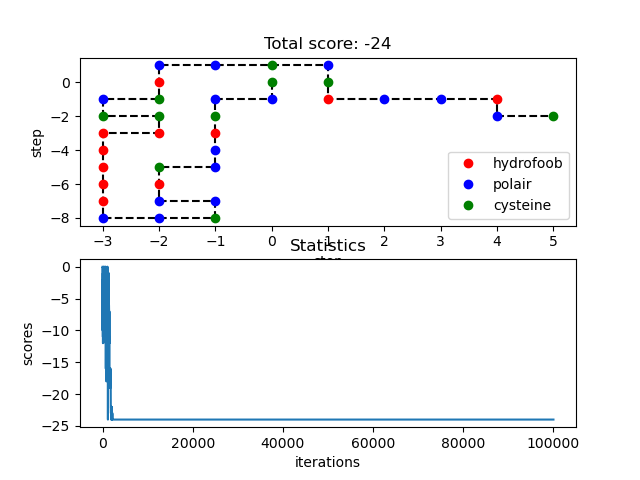
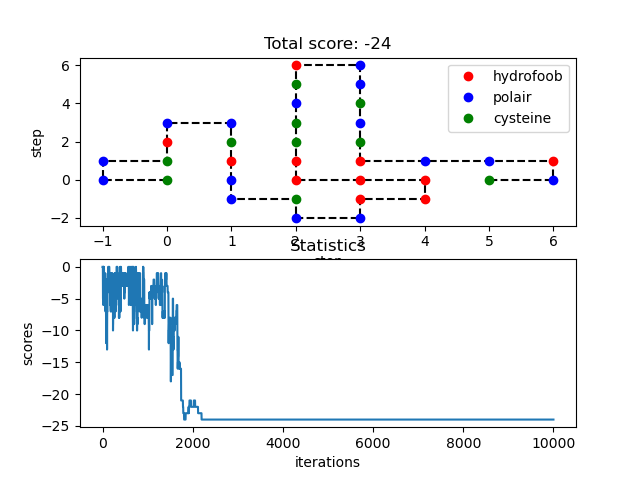
hillclimber added and simanealing corrected

diff --git a/hillclimber.py b/hillclimber.py
@@ -1,8 +1,5 @@
 """
-Renamed and reorganized some parts of monte.py for convenience
-Simmulated annealing seems to work
-Tweaking start temperature and iterations to figure out what combo works best
-Best till now seems to be -28
+Hiilclimber to compare simulated annealing
 """
 
 import numpy as np 
@@ -14,9 +11,8 @@ import copy
 # PROTEIN = 'PPHPPHPHPHHHHPHPPPHPPPHPPPPHPPPHPPPHPHHHHPHPHPHPHPHH'
 PROTEIN = 'CPPCHPPCHPPCPPHHHHHHCCPCHPPCPCHPPHPC'
 LENGTH = len(PROTEIN)
-ITERATIONS = 10000
+ITERATIONS = 1000
 DIRECTIONS = [[-1, 0], [0, 1], [1, 0], [0, -1]]
-START_TEMP = 100
 
 
 def protein_configuration():
@@ -44,20 +40,11 @@ def protein_configuration():
             continue
 
         old_score = score(backup_x, backup_y)
-        new_score = score(x, y)        
+        new_score = score(x, y)
 
-        temperature = START_TEMP * (0.997 ** rotations)
-        # temperature = START_TEMP - (START_TEMP / ITERATIONS) * rotations
-        acceptance_chance = 2 ** ((old_score - new_score)/temperature)
-        treshhold = random.random()
-
-        if new_score > old_score and acceptance_chance < treshhold:
+        if new_score > old_score:
             x = backup_x
             y = backup_y
-
-        # if acceptance_chance < treshhold:
-        #     x = backup_x
-        #     y = backup_y
 
         scores.append(old_score)
 
@@ -66,14 +53,6 @@ def protein_configuration():
             best_y = copy.deepcopy(y)
             lowest_score = copy.deepcopy(old_score)
 
-        # temperature = START_TEMP * (0.997 ** rotations)
-        # # temperature = START_TEMP - (START_TEMP / ITERATIONS) * rotations
-        # acceptance_chance = 2 ** ((old_score - new_score)/temperature)
-        # treshhold = random.random()
-
-        # if acceptance_chance < treshhold:
-        #     x = backup_x
-        #     y = backup_y
 
         rotations += 1
 
@@ -191,7 +170,7 @@ def visualization(x, y, score, scores):
     plt.title("Statistics")
     plt.xlabel("iterations")
     plt.ylabel("scores")
-    plt.savefig("simannealing.png")
+    plt.savefig("hillclimber.png")
     plt.show()
 
 

diff --git a/bab.py b/bab.py
@@ -16,7 +16,7 @@ import random
 # bunch of test strings
 
 # protein = ['H', 'H', 'P', 'H']
-# protein = ['H', 'H', 'P', 'H', 'H', 'H', 'P', 'H'] # official 8, mc -3
+protein = ['H', 'H', 'P', 'H', 'H', 'H', 'P', 'H'] # official 8, mc -3
 # # protein = ['H', 'H', 'P', 'H', 'H', 'H', 'P', 'H', 'P', 'H', 'H', 'H', 'P', 'H'] # official 14, mc -6
 # protein = ['H', 'P', 'H', 'P', 'P', 'H', 'H', 'P', 'H', 'P', 'P', 'H', 'P', 'H', 'H', 'P', 
 # #   'P', 'H', 'P', 'H'] # official 20, mc -9
@@ -31,9 +31,9 @@ import random
 # protein = ['P', 'P', 'H', 'P', 'P', 'H', 'H', 'P', 'P', 'H', 'H', 'P', 'P', 'P', 'P', 'P', 
 #   'H', 'H', 'H', 'H', 'H', 'H', 'H', 'H', 'H', 'H', 'P', 'P', 'P', 'P', 'P', 'P', 'H', 'H', 
 #   'P', 'P', 'H', 'H', 'P', 'P', 'H', 'P', 'P', 'H', 'H', 'H', 'H', 'H'] # 48, opt -23
-protein = ['P', 'P', 'H', 'P', 'P', 'H', 'P', 'H', 'P', 'H', 'H', 'H', 'H', 'P', 'H', 'P', 
-  'P', 'P', 'H', 'P', 'P', 'P', 'H', 'P', 'P', 'P', 'P', 'H', 'P', 'P', 'P', 'H', 'P', 'P', 
-  'P', 'H', 'P', 'H', 'H', 'H', 'H', 'P', 'H', 'P', 'H', 'P', 'H', 'P', 'H', 'H']  # 50, opt -21
+#protein = ['P', 'P', 'H', 'P', 'P', 'H', 'P', 'H', 'P', 'H', 'H', 'H', 'H', 'P', 'H', 'P', 
+#   'P', 'P', 'H', 'P', 'P', 'P', 'H', 'P', 'P', 'P', 'P', 'H', 'P', 'P', 'P', 'H', 'P', 'P', 
+#   'P', 'H', 'P', 'H', 'H', 'H', 'H', 'P', 'H', 'P', 'H', 'P', 'H', 'P', 'H', 'H']  # 50, opt -21
 # protein = ['H', 'H', 'P', 'H', 'C', 'H', 'P', 'C', 'P', 'C', 'H'] #  mc -3
 # protein = ['C', 'P', 'P', 'C', 'H', 'P', 'P', 'C', 'H', 'P', 'P', 'C', 'P', 'P', 'H', 'H', 'H', 
 #     'H', 'H', 'H', 'C', 'C', 'P', 'C', 'H', 'P', 'P', 'C', 'P', 'C', 'H', 'P', 'P', 'H', 'P', 'C'] # 36, mc -33
